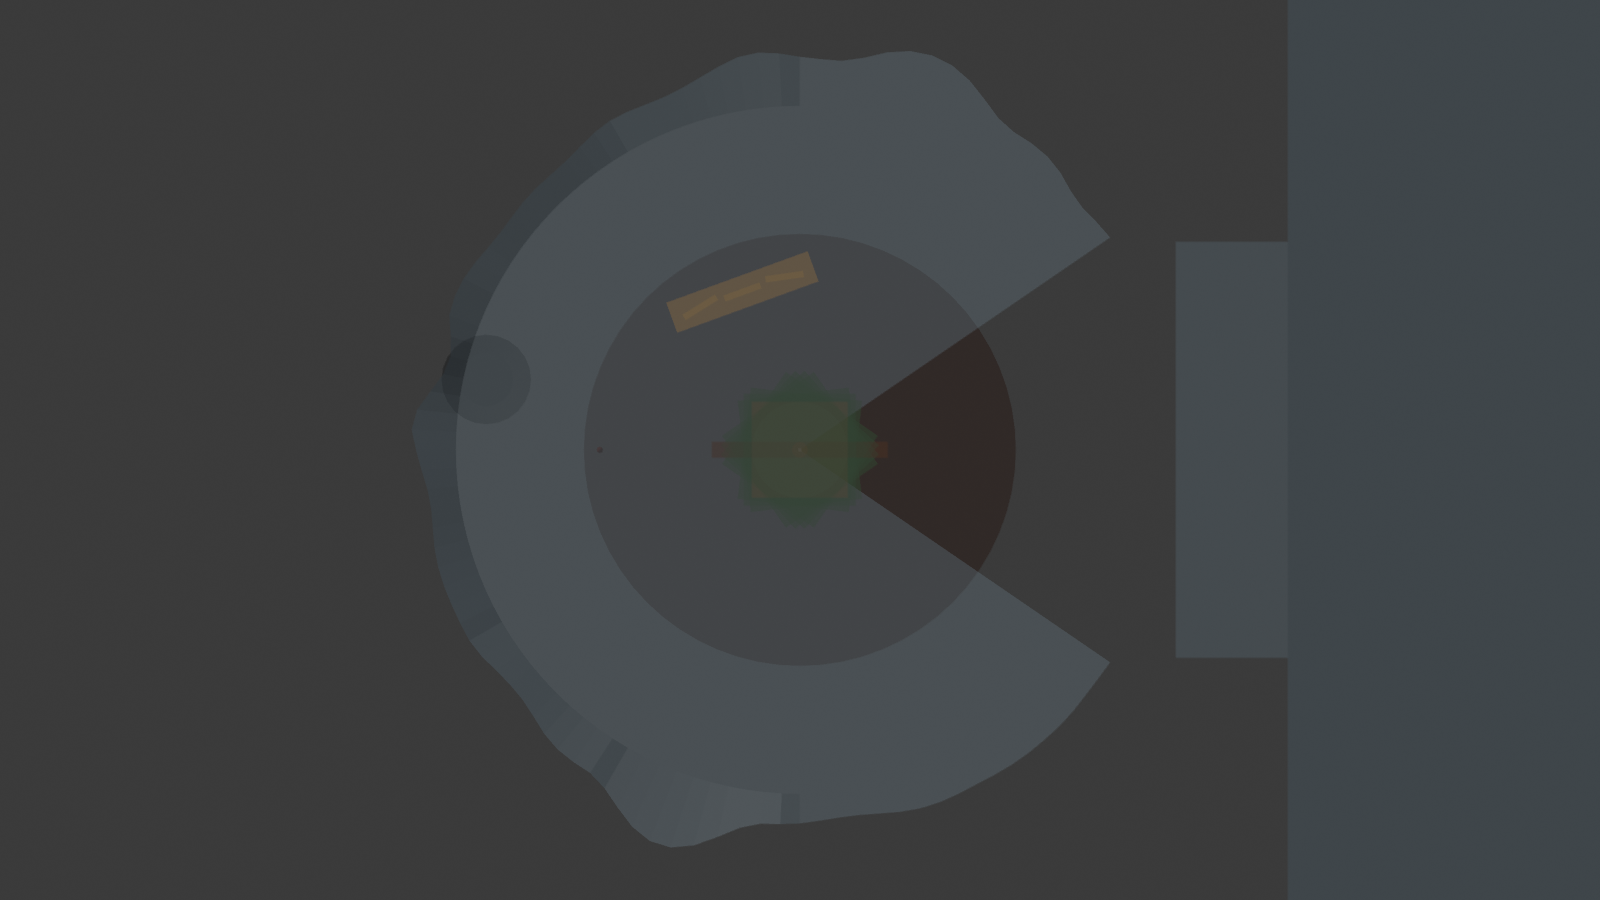
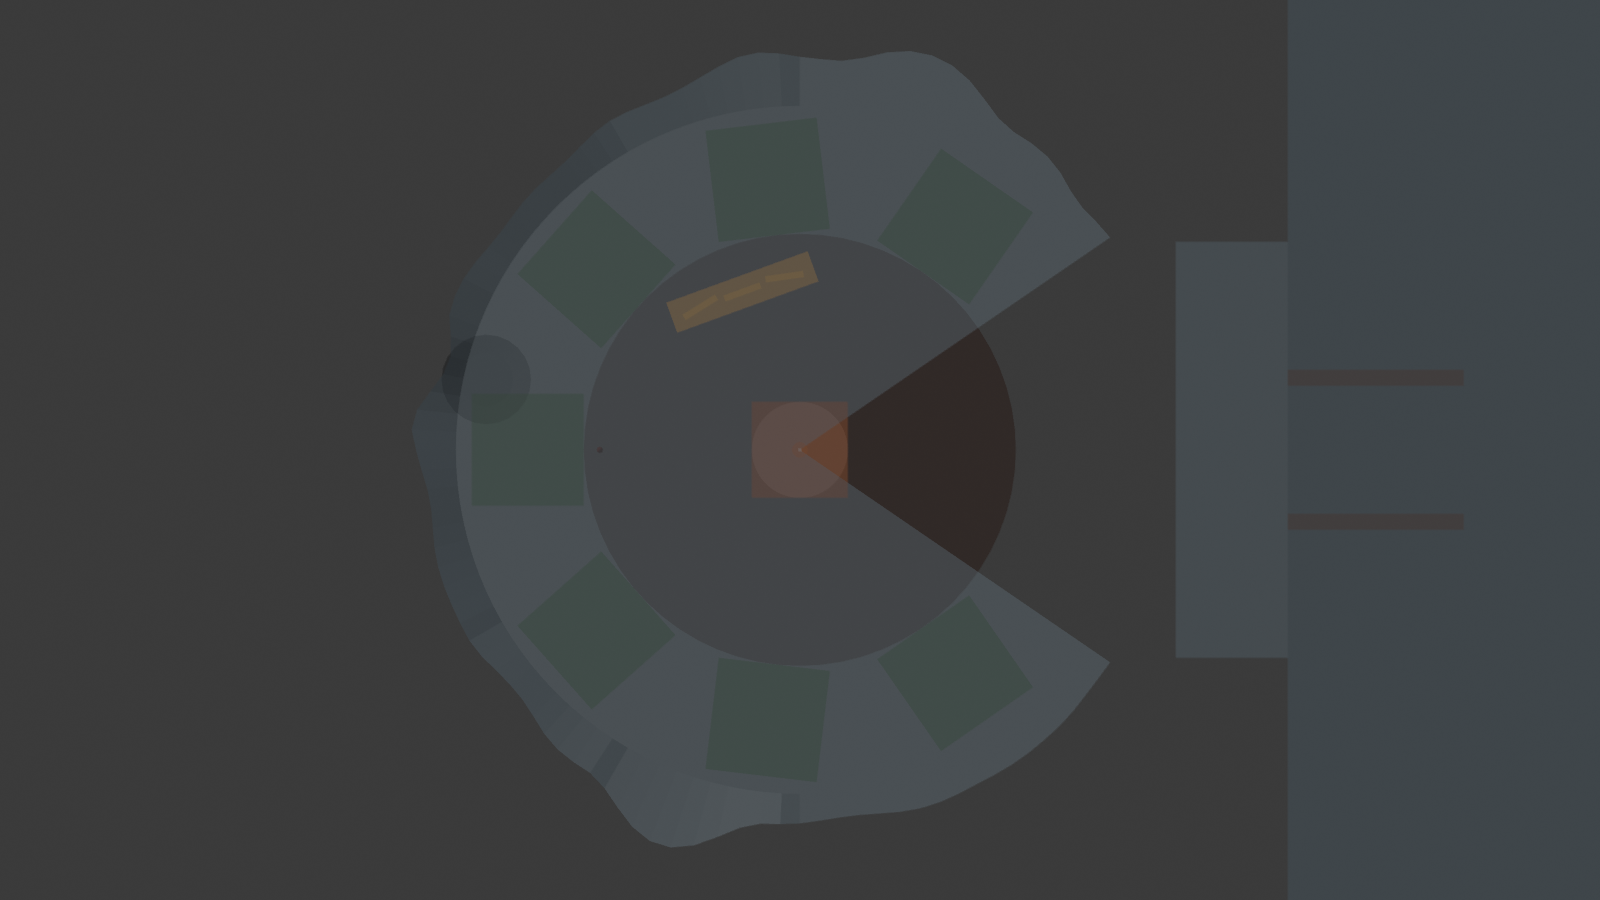
Phase 3: Shop + spire, and a critical set_origin_to_base fix
Shop landmark: 4 corner stone piers + 4 true arched stone lintels
(half-ellipse profile, built as a solid loft via a new lib.mesh.arch_beam
helper -- no boolean, avoiding the exact n-gon/non-manifold risk CLAUDE.md
flags for shop arches) leaving the ground floor genuinely open on all four
sides. Solid second-storey box (interior left empty -- shop interior
layout is an explicit "ASK ME ABOUT" item). Hip roof (new lib.mesh.
hip_roof helper, a real ridge line rather than a pyramid apex) to
SHOP_ROOF_Z=48. Spire: a short drum + tapering octagonal cone to exactly
SPIRE_PEAK_Z=95. Check from CLAUDE.md: rendered from (600,0,5) looking
back -- spire is clearly visible above the horizon (p3_sea600_lookback.png).

Critical fix: lib.scene.set_origin_to_base() was reading obj.matrix_world
immediately after setting obj.location. In this MCP/headless context,
matrix_world is a cached/evaluated value that does not refresh until a
depsgraph update, so the function was silently computing against the
object's PREVIOUS (usually origin) transform. Net effect: every object
that called it in Phases 1-2 (docks, all 7 plot pads, the beach ramp, all
4 terrain quadrants, the ocean floor, the tide pool) had its world
position corrupted -- most snapped back toward (0,0,z). validate.py's
check 7 (local-Z-only) didn't catch this because it never inspects world
X/Y. Caught by explicitly re-verifying world bounding boxes after Phase 3
[…]

Changed region(s): [[0.4688, 0.4356, 0.5312, 0.56]]

diff --git a/src/p3_shop.py b/src/p3_shop.py
@@ -1,0 +1,206 @@
+"""Phase 3 -- Shop + spire. The landmark; everything else is scaled
+against it.
+
+Ground floor is a genuine open arcade -- 4 corner stone piers with a true
+arched stone lintel (half-ellipse, built as a solid loft via lib.mesh.
+arch_beam) spanning each side, and NOTHING filling the gap below/around the
+arch. That satisfies "open on all four sides, enterable from any approach"
+without a single boolean cut -- CLAUDE.md explicitly flags the shop arches
+as a top boolean-cut risk (n-gons, non-manifold edges), so this phase
+avoids the operation entirely rather than adding a cleanup pass to catch
+its failures.
+
+Second storey is a solid box (no interior fitout -- shop interior layout
+is explicitly an "ASK ME ABOUT" item in CLAUDE.md, so it stays an empty
+shell here). Hip roof (a short ridge, not a single pyramid apex, matching
+"roof ridge" in the brief). Spire: a short drum + tapering octagonal cone
+to the exact SPIRE_PEAK_Z.
+
+Proportions inferred (not in config.py, flagged rather than guessed):
+  PIER_SIZE          = 6.0   studs (corner pier footprint)
+  ARCH_SPRINGLINE_Z   = 14.0  studs (where the arch curve begins)
+  ARCH_RISE           = 10.0  studs (springline -> apex, so apex = pier top = 24)
+  ARCH_THICKNESS       = 4.0   studs (radial thickness of the arch band)
+  UPPER_FLOOR_H        = 14.0  studs (24 -> 38, second storey wall height)
+  ROOF_RIDGE_LEN        = 20.0  studs (hip roof ridge length)
+  SPIRE_DRUM_R / _H      = 6.0 / 4.0 studs (transition drum, roof to taper)
+These interlock (pier top == arch apex == 24; upper floor top == roof eave
+== 38) so re-tuning one requires re-deriving the others -- see the
+constants block below, all in one place.
+
+Idempotent: purges "DD_Struct_Shop" (catches Phase 1's old single box AND
+all of this phase's Pier/Arch/Upper/Roof sub-objects) and "DD_Struct_Spire"
+before rebuilding.
+"""
+import os
+import sys
+
+SRC_DIR = os.path.dirname(os.path.abspath(__file__))
+REPO_ROOT = os.path.dirname(SRC_DIR)
+if SRC_DIR not in sys.path:
+    sys.path.insert(0, SRC_DIR)
+
+import bpy
+
+import config
+from lib import mesh as dd_mesh
+from lib import palette as dd_palette
+from lib import scene as dd_scene
+
+PIER_SIZE = 6.0
+ARCH_SPRINGLINE_Z = 14.0
+ARCH_RISE = 10.0
+ARCH_APEX_Z = ARCH_SPRINGLINE_Z + ARCH_RISE          # 24.0 -- also the pier height
+ARCH_THICKNESS = 4.0
+ARCH_SPAN = config.SHOP_FOOTPRINT - 2.0 * PIER_SIZE   # 48.0, inner-face to inner-face
+
+UPPER_FLOOR_H = 14.0
+UPPER_TOP_Z = ARCH_APEX_Z + UPPER_FLOOR_H              # 38.0 -- also the roof eave
+
+ROOF_RIDGE_LEN = 20.0
+
+SPIRE_DRUM_R = 6.0
+SPIRE_DRUM_H = 4.0
+
+OWNED_PREFIXES = [
+    "DD_Struct_Shop",   # catches Phase 1's single box + all sub-parts below
+    "DD_Struct_Spire",
+]
+
+
+def purge():
+    for prefix in OWNED_PREFIXES:
+        dd_scene.purge_by_prefix(prefix)
+
+
+def _finish(obj):
+    dd_mesh.shade_flat(obj)
+    dd_scene.set_origin_to_base(obj)
+    dd_scene.link_to_collection(obj, "Structures")
+    return obj
+
+
+def build_piers():
+    half = config.SHOP_FOOTPRINT / 2.0
+    corner_offset = half - PIER_SIZE / 2.0
+    corners = {
+        "NE": (corner_offset, corner_offset),
+        "NW": (-corner_offset, corner_offset),
+        "SE": (corner_offset, -corner_offset),
+        "SW": (-corner_offset, -corner_offset),
+    }
+    objs = []
+    for suffix, (x, y) in corners.items():
+        obj = dd_mesh.box(f"DD_Struct_ShopPier_{suffix}", PIER_SIZE, PIER_SIZE, ARCH_APEX_Z, base_z=0.0)
+        obj.location = (x, y, 0.0)
+        objs.append(_finish(obj))
+    return objs
+
+
+def build_arches():
+    half = config.SHOP_FOOTPRINT / 2.0
+    pier_center_offset = half - PIER_SIZE / 2.0
+    walls = {
+        "N": (0.0, pier_center_offset, 0.0),
+        "S": (0.0, -pier_center_offset, 0.0),
+        "E": (pier_center_offset, 0.0, 1.5707963267948966),   # 90 deg
+        "W": (-pier_center_offset, 0.0, 1.5707963267948966),
+    }
+    objs = []
+    for suffix, (x, y, yaw) in walls.items():
+        obj = dd_mesh.arch_beam(
+            f"DD_Struct_ShopArch_{suffix}",
+            span=ARCH_SPAN,
+            rise=ARCH_RISE,
+            thickness=ARCH_THICKNESS,
+            depth=PIER_SIZE,
+            base_z=ARCH_SPRINGLINE_Z,
+            yaw=yaw,
+            samples=16,
+        )
+        obj.location = (x, y, 0.0)
+        objs.append(_finish(obj))
+    return objs
+
+
+def build_upper_floor():
+    obj = dd_mesh.box("DD_Struct_ShopUpper", config.SHOP_FOOTPRINT, config.SHOP_FOOTPRINT, UPPER_FLOOR_H, base_z=0.0)
+    obj.location = (0.0, 0.0, ARCH_APEX_Z)
+    return _finish(obj)
+
+
+def build_roof():
+    obj = dd_mesh.hip_roof(
+        "DD_Struct_ShopRoof",
+        footprint_x=config.SHOP_FOOTPRINT,
+        footprint_y=config.SHOP_FOOTPRINT,
+        eave_z=UPPER_TOP_Z,
+        ridge_z=config.SHOP_ROOF_Z,
+        ridge_len=ROOF_RIDGE_LEN,
+    )
+    return _finish(obj)
+
+
+def build_spire():
+    drum = dd_mesh.cylinder("DD_Struct_SpireDrum", SPIRE_DRUM_R, SPIRE_DRUM_H, base_z=0.0, segments=8)
+    drum.location = (0.0, 0.0, config.SHOP_ROOF_Z)
+    _finish(drum)
+
+    cone_height = config.SPIRE_PEAK_Z - (config.SHOP_ROOF_Z + SPIRE_DRUM_H)
+    cone = dd_mesh.cone("DD_Struct_SpireCone", SPIRE_DRUM_R, cone_height, base_z=0.0, segments=8)
+    cone.location = (0.0, 0.0, config.SHOP_ROOF_Z + SPIRE_DRUM_H)
+    _finish(cone)
+    return [drum, cone]
+
+
+def build():
+    dd_scene.ensure_collections()
+    purge()
+    build_piers()
+    build_arches()
+    build_upper_floor()
+    build_roof()
+    build_spire()
+
+
+def capture_renders():
+    renders_dir = os.path.join(REPO_ROOT, "renders")
+    os.makedirs(renders_dir, exist_ok=True)
+
+    dd_objs = [o for o in bpy.data.objects if o.name.startswith("DD_")]
+    dd_palette.apply_debug_colors(dd_objs)
+
+    top_cam = dd_scene.setup_ortho_top_camera("RenderCam_Top", ortho_scale=1000.0, height=700.0)
+    dd_scene.render_to_file(top_cam, os.path.join(renders_dir, "p3_top_ortho.png"), xray=True)
+
+    eye_cam = dd_scene.setup_eye_camera(
+        "RenderCam_SpawnEye",
+        location=(config.SPAWN_XY[0], config.SPAWN_XY[1], 5.0),
+        facing_deg=config.SPAWN_FACING_DEG,
+        fov_deg=70.0,
+    )
+    dd_scene.render_to_file(eye_cam, os.path.join(renders_dir, "p3_spawn_eye.png"), xray=False)
+
+    # Phase 3's explicit check: spire visible above the horizon from
+    # (600, 0, 5) looking back toward the island.
+    sea_cam = dd_scene.setup_eye_camera(
+        "RenderCam_Sea600",
+        location=(600.0, 0.0, 5.0),
+        facing_deg=180.0,
+        fov_deg=70.0,
+    )
+    dd_scene.render_to_file(sea_cam, os.path.join(renders_dir, "p3_sea600_lookback.png"), xray=False)
+
+    # A close-up of the shop itself, to actually see the arches/roof/spire.
+    close_cam = dd_scene.setup_eye_camera(
+        "RenderCam_ShopClose",
+        location=(90.0, -90.0, 12.0),
+        facing_deg=135.0,
+        fov_deg=60.0,
+    )
+    dd_scene.render_to_file(close_cam, os.path.join(renders_dir, "p3_shop_close.png"), xray=False)
+
+
+if __name__ == "__main__":
+    build()
+    capture_renders()

diff --git a/src/lib/mesh.py b/src/lib/mesh.py
@@ -194,6 +194,75 @@ def terrain_quadrant(name, angle_start_deg, angle_end_deg, segments, mid_radius,
     return bm_to_object(name, bm, collection=collection)
 
 
+def arch_beam(name, span, rise, thickness, depth, base_z, yaw=0.0, samples=16, collection=None):
+    """A solid stone arch band (half-ellipse profile) spanning `span` studs
+    wide and `rise` studs tall, `thickness` studs thick (radially) and
+    `depth` studs deep. Local X = across the span (-span/2..span/2), local
+    Y = depth, local Z = base_z (springline) up to base_z+rise (apex).
+    `yaw` bakes footprint rotation into local vertex data (see box()) so the
+    same beam can be reused for a wall running along X or along Y while the
+    object keeps identity rotation. Built directly via bmesh (no boolean) --
+    CLAUDE.md flags boolean cuts as the #1 risk for shop-arch geometry.
+    """
+    a_out, b_out = span / 2.0, rise
+    a_in, b_in = max(a_out - thickness, 0.5), max(b_out - thickness, 0.5)
+    cos_y, sin_y = math.cos(yaw), math.sin(yaw)
+
+    def rot(x, y):
+        return (x * cos_y - y * sin_y, x * sin_y + y * cos_y)
+
+    bm = bmesh.new()
+    outer_f, outer_b, inner_f, inner_b = [], [], [], []
+    for i in range(samples + 1):
+        t = math.pi * i / samples
+        cos_t, sin_t = math.cos(t), math.sin(t)
+        z_out, z_in = base_z + b_out * sin_t, base_z + b_in * sin_t
+        ox, oy = rot(a_out * cos_t, -depth / 2.0)
+        outer_f.append(bm.verts.new((ox, oy, z_out)))
+        ox, oy = rot(a_out * cos_t, depth / 2.0)
+        outer_b.append(bm.verts.new((ox, oy, z_out)))
+        ix, iy = rot(a_in * cos_t, -depth / 2.0)
+        inner_f.append(bm.verts.new((ix, iy, z_in)))
+        ix, iy = rot(a_in * cos_t, depth / 2.0)
+        inner_b.append(bm.verts.new((ix, iy, z_in)))
+    bm.verts.ensure_lookup_table()
+
+    for i in range(samples):
+        j = i + 1
+        bm.faces.new((outer_f[i], outer_f[j], outer_b[j], outer_b[i]))   # outer curved face
+        bm.faces.new((inner_b[i], inner_b[j], inner_f[j], inner_f[i]))   # inner curved face
+        bm.faces.new((inner_f[i], inner_f[j], outer_f[j], outer_f[i]))   # front flat face
+        bm.faces.new((outer_b[i], outer_b[j], inner_b[j], inner_b[i]))   # back flat face
+    bm.faces.new((outer_f[0], outer_b[0], inner_b[0], inner_f[0]))       # start end cap
+    bm.faces.new((inner_f[samples], inner_b[samples], outer_b[samples], outer_f[samples]))  # end cap
+
+    bmesh.ops.recalc_face_normals(bm, faces=bm.faces)
+    bm.normal_update()
+    return bm_to_object(name, bm, collection=collection)
+
+
+def hip_roof(name, footprint_x, footprint_y, eave_z, ridge_z, ridge_len, collection=None):
+    """A simple hip roof: rectangular eave line, a short ridge centred and
+    aligned along X, 4 sloped faces + a flat underside cap. Built directly
+    via from_pydata (no boolean)."""
+    hx, hy = footprint_x / 2.0, footprint_y / 2.0
+    rh = ridge_len / 2.0
+    verts = [
+        (-hx, -hy, eave_z), (hx, -hy, eave_z), (hx, hy, eave_z), (-hx, hy, eave_z),  # 0-3 eave corners
+        (-rh, 0.0, ridge_z), (rh, 0.0, ridge_z),  # 4,5 ridge ends
+    ]
+    faces = [
+        (0, 1, 2, 3),      # underside cap
+        (0, 1, 5, 4),      # south slope (trapezoid)
+        (2, 3, 4, 5),      # north slope (trapezoid)
+        (1, 2, 5),         # east hip (triangle)
+        (3, 0, 4),         # west hip (triangle)
+    ]
+    obj = new_mesh_object(name, verts, faces, collection=collection)
+    recalc_normals_outward(obj)
+    return obj
+
+
 def shade_flat(obj):
     """Faceted shading -- the default for everything except water and rope."""
     for poly in obj.data.polygons:

diff --git a/src/lib/scene.py b/src/lib/scene.py
@@ -70,22 +70,34 @@ def link_to_collection(obj, collection_name):
 def set_origin_to_base(obj):
     """Move the object's origin to its bounding-box base centre (min Z,
     centred X/Y) without bpy.ops, so it survives headless/MCP execution.
-    Roblox expects origins at base centre, not volume centre."""
+    Roblox expects origins at base centre, not volume centre.
+
+    Deliberately does NOT read obj.matrix_world: in this MCP/headless
+    context, matrix_world is a cached/evaluated value that does not refresh
+    until a depsgraph update, so reading it immediately after setting
+    obj.location returns the object's PREVIOUS transform -- a real bug
+    found while building Phase 3 (every object silently snapped back to
+    the world origin). Building the transform matrix directly from
+    obj.location/rotation/scale sidesteps the staleness entirely.
+    """
     import mathutils
 
     mesh = obj.data
     if mesh is None or len(mesh.vertices) == 0:
         return
-    coords = [obj.matrix_world @ v.co for v in mesh.vertices]
+    rotation = obj.rotation_quaternion if obj.rotation_mode == "QUATERNION" else obj.rotation_euler
+    mat = mathutils.Matrix.LocRotScale(obj.location, rotation, obj.scale)
+
+    coords = [mat @ v.co for v in mesh.vertices]
     xs = [c.x for c in coords]
     ys = [c.y for c in coords]
     zs = [c.z for c in coords]
     base = mathutils.Vector(((min(xs) + max(xs)) / 2.0, (min(ys) + max(ys)) / 2.0, min(zs)))
-    offset_world = base - obj.matrix_world.translation
-    local_offset = obj.matrix_world.inverted().to_3x3() @ offset_world
+    offset_world = base - obj.location
+    local_offset = mat.to_3x3().inverted() @ offset_world
     for v in mesh.vertices:
         v.co -= local_offset
-    obj.matrix_world.translation = base
+    obj.location = base
     mesh.update()
 
 
